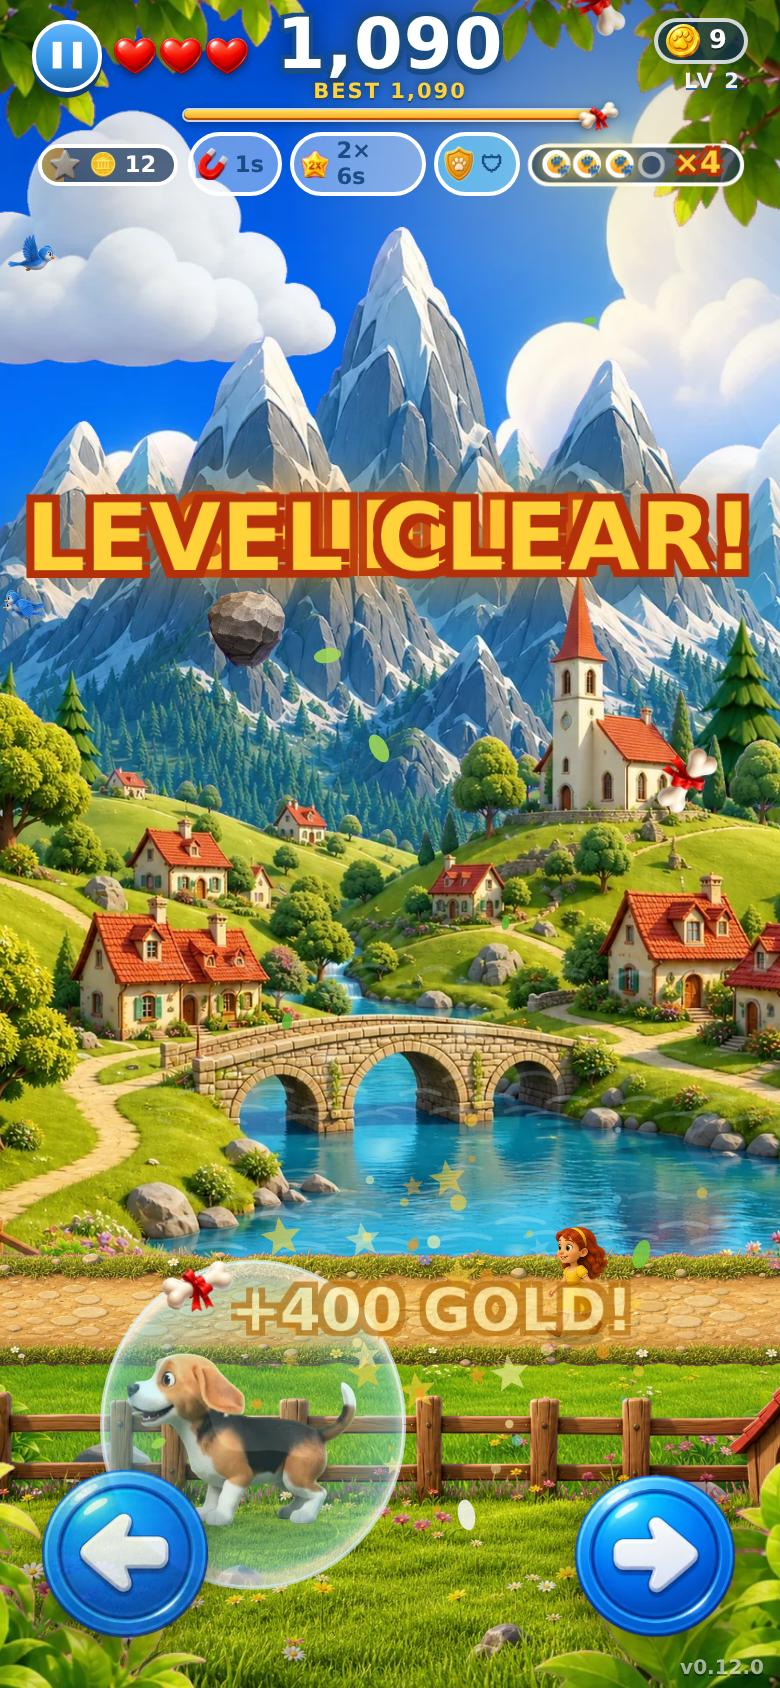
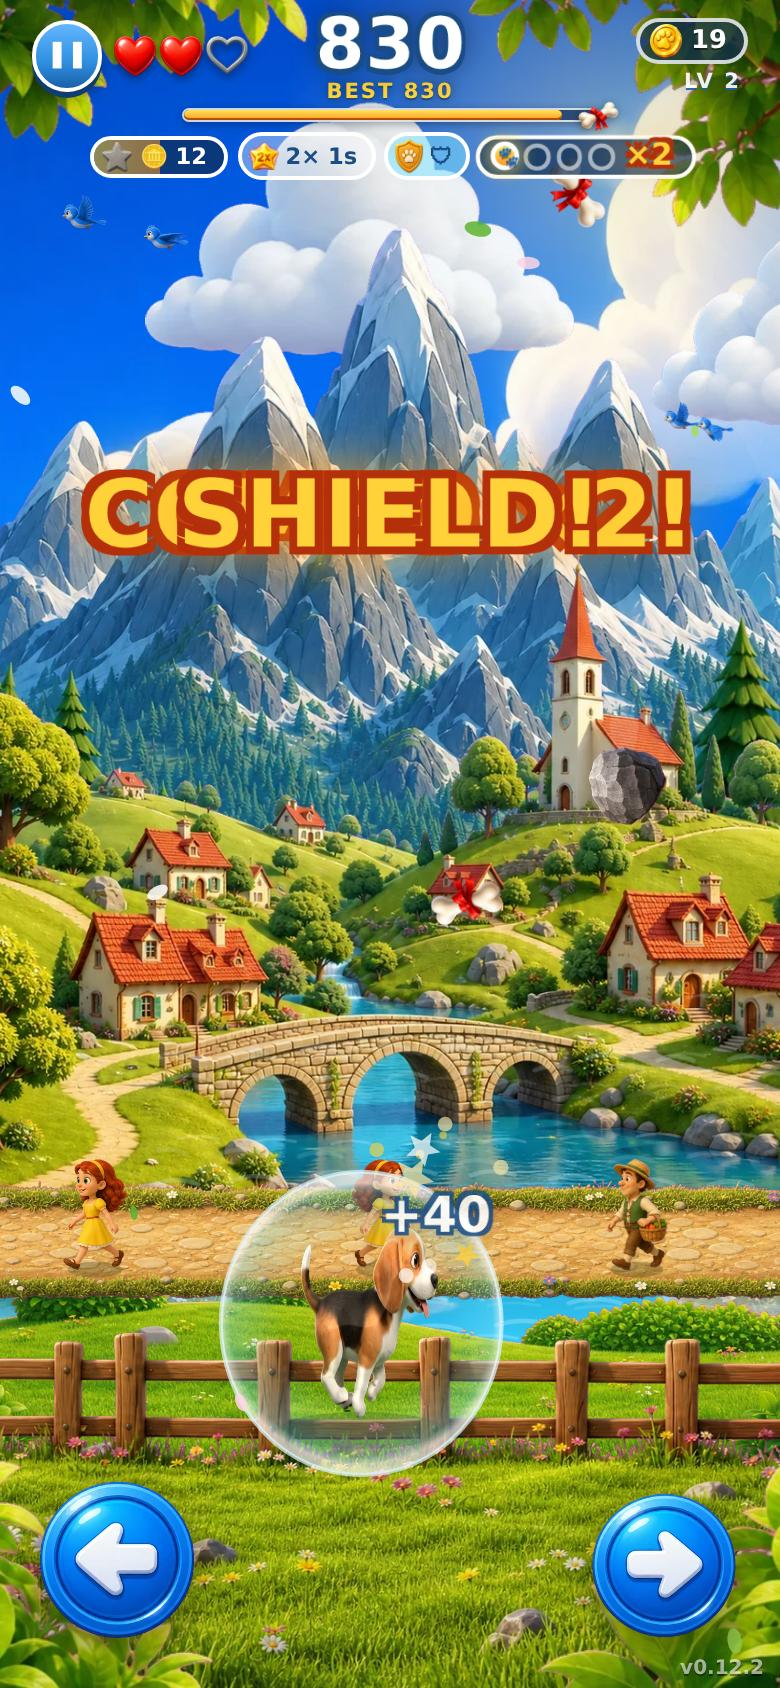
v0.12.2 — phone layout: puppy lane above the arrow buttons; i-frame glow instead of alpha strobe

diff --git a/index.html b/index.html
@@ -5,7 +5,7 @@
 <meta name="viewport" content="width=device-width, initial-scale=1.0, maximum-scale=1.0, user-scalable=no, viewport-fit=cover">
 <meta name="theme-color" content="#2f8fe0">
 <title>BONK! — Catch. Dodge. Don't get bonked.</title>
-<link rel="stylesheet" href="styles/main.css?v=0.12.1">
+<link rel="stylesheet" href="styles/main.css?v=0.12.2">
 </head>
 <body>
 <div id="backdrop"></div>
@@ -160,35 +160,35 @@
 </div>
 
 <!-- core -->
-<script src="src/core/config.js?v=0.12.1"></script>
-<script src="src/core/events.js?v=0.12.1"></script>
-<script src="src/core/flags.js?v=0.12.1"></script>
-<script src="src/core/analytics.js?v=0.12.1"></script>
-<script src="src/core/save.js?v=0.12.1"></script>
-<script src="src/core/wallet.js?v=0.12.1"></script>
-<script src="src/core/storage.js?v=0.12.1"></script>
-<script src="src/core/assets.js?v=0.12.1"></script>
-<script src="src/core/audio.js?v=0.12.1"></script>
-<script src="src/core/input.js?v=0.12.1"></script>
-<script src="src/net/leaderboard.js?v=0.12.1"></script>
+<script src="src/core/config.js?v=0.12.2"></script>
+<script src="src/core/events.js?v=0.12.2"></script>
+<script src="src/core/flags.js?v=0.12.2"></script>
+<script src="src/core/analytics.js?v=0.12.2"></script>
+<script src="src/core/save.js?v=0.12.2"></script>
+<script src="src/core/wallet.js?v=0.12.2"></script>
+<script src="src/core/storage.js?v=0.12.2"></script>
+<script src="src/core/assets.js?v=0.12.2"></script>
+<script src="src/core/audio.js?v=0.12.2"></script>
+<script src="src/core/input.js?v=0.12.2"></script>
+<script src="src/net/leaderboard.js?v=0.12.2"></script>
 <!-- game data -->
-<script src="src/game/items.js?v=0.12.1"></script>
-<script src="src/game/goals.js?v=0.12.1"></script>
-<script src="src/game/levels.js?v=0.12.1"></script>
+<script src="src/game/items.js?v=0.12.2"></script>
+<script src="src/game/goals.js?v=0.12.2"></script>
+<script src="src/game/levels.js?v=0.12.2"></script>
 <!-- game systems -->
-<script src="src/game/ambient.js?v=0.12.1"></script>
-<script src="src/game/background.js?v=0.12.1"></script>
-<script src="src/game/effects.js?v=0.12.1"></script>
-<script src="src/game/puppy.js?v=0.12.1"></script>
-<script src="src/game/spawner.js?v=0.12.1"></script>
-<script src="src/game/game.js?v=0.12.1"></script>
-<script src="src/game/ftue.js?v=0.12.1"></script>
+<script src="src/game/ambient.js?v=0.12.2"></script>
+<script src="src/game/background.js?v=0.12.2"></script>
+<script src="src/game/effects.js?v=0.12.2"></script>
+<script src="src/game/puppy.js?v=0.12.2"></script>
+<script src="src/game/spawner.js?v=0.12.2"></script>
+<script src="src/game/game.js?v=0.12.2"></script>
+<script src="src/game/ftue.js?v=0.12.2"></script>
 <!-- ui + scenes -->
-<script src="src/ui/hud.js?v=0.12.1"></script>
-<script src="src/ui/modals.js?v=0.12.1"></script>
-<script src="src/scenes/map.js?v=0.12.1"></script>
-<script src="src/scenes/play.js?v=0.12.1"></script>
+<script src="src/ui/hud.js?v=0.12.2"></script>
+<script src="src/ui/modals.js?v=0.12.2"></script>
+<script src="src/scenes/map.js?v=0.12.2"></script>
+<script src="src/scenes/play.js?v=0.12.2"></script>
 <!-- bootstrap -->
-<script src="src/app.js?v=0.12.1"></script>
+<script src="src/app.js?v=0.12.2"></script>
 </body>
 </html>

diff --git a/src/ui/hud.js b/src/ui/hud.js
@@ -33,10 +33,11 @@ const HUD = (() => {
     if (Input.any || (S && S.time > 4)) el.hint.style.opacity = 0;   // hide on first input or after 4 s
     // arrow buttons go translucent while the puppy runs underneath them (canvas is below the DOM)
     if (!zones || zoneW !== el.stage.clientWidth) { zoneW = el.stage.clientWidth; const sr = el.stage.getBoundingClientRect();
-      zones = [el.ctlL, el.ctlR].map(b => { const r = b.getBoundingClientRect(); return [(r.left - sr.left) / sr.width, (r.right - sr.left) / sr.width]; }); }
+      zones = [el.ctlL, el.ctlR].map(b => { const r = b.getBoundingClientRect(); return [(r.left - sr.left) / sr.width, (r.right - sr.left) / sr.width]; }); zones.top = el.ctlL.getBoundingClientRect().top - sr.top; }
     const bx = Game.puppy.box, x0 = (bx.cx - bx.pw * .5) / BG.W, x1 = (bx.cx + bx.pw * .5) / BG.W;
-    el.ctlL.classList.toggle('ghost', x0 < zones[0][1] && x1 > zones[0][0]);
-    el.ctlR.classList.toggle('ghost', x0 < zones[1][1] && x1 > zones[1][0]);
+    const under = Game.puppy.groundY > zones.top;   // only when the layout actually puts the puppy under the buttons (v0.12.2: it doesn't)
+    el.ctlL.classList.toggle('ghost', under && x0 < zones[0][1] && x1 > zones[0][0]);
+    el.ctlR.classList.toggle('ghost', under && x0 < zones[1][1] && x1 > zones[1][0]);
     // goal chip: live progress, then done/failed state; fades out 3 s after resolving
     if (S.goal) {
       const done = !S.goal.def.survive && S.goal.def.done(S, S.goal.st, S.goal.cfg), failed = !done && Goals.failed(S);

diff --git a/src/game/puppy.js b/src/game/puppy.js
@@ -187,7 +187,8 @@ class Puppy {
     const box = this.box, gy = this.groundY, lift = this.bob + this.hop;
     for (const d of this.dust) { c.save(); c.globalAlpha = (1 - d.t / d.life) * .35; c.fillStyle = '#e8d9b5'; c.beginPath(); c.arc(d.x, d.y, d.r * (1 + d.t * 2), 0, 6.28); c.fill(); c.restore(); }
 
-    const baseAlpha = (this.inv > 0 && Math.floor(this.inv * 12) % 2 === 0) ? .55 : 1;
+    // i-frames: NO transparency flicker (that read as "the dog disappears"). Instead a soft pulsing white glow around him.
+    const baseAlpha = 1, glow = this.inv > 0 ? (0.5 + 0.5 * Math.sin(this.inv * 18)) : 0;
     // shadow — shrinks and fades a little as the puppy lifts off
     const k = Math.min(1, lift / (box.pw * .3));
     c.save(); c.globalAlpha = .28 - k * .10; c.fillStyle = '#143c0a'; c.beginPath(); c.ellipse(box.cx, gy + 2, box.pw * (.36 - k * .08), box.pw * (.08 - k * .02), 0, 0, 6.28); c.fill(); c.restore();
@@ -202,6 +203,7 @@ class Puppy {
     const passes = (tt < 1 && !frontView) ? [[tt < .5 ? this.prevFace : this.face, 1, wOf(tt)]] : [[frontView ? 1 : this.face, 1, 1]];
     for (const [fx, a, wx] of passes) {
       c.save(); c.translate(box.cx, gy - lift);
+      if (glow > 0) { c.shadowColor = `rgba(255,255,255,${(0.35 + 0.5 * glow).toFixed(2)})`; c.shadowBlur = box.pw * (0.06 + 0.10 * glow); }
       c.rotate(sideView ? this.lean * .6 : 0);
       c.scale(fx * wx * this.squash, (2 - this.squash) * (1 + (1 - wx) * .10));
       // cross-dissolve between animations: alphas sum to 1 → no double exposure

diff --git a/src/core/config.js b/src/core/config.js
@@ -6,14 +6,14 @@
  * Item definitions live in src/game/items.js
  */
 const CONFIG = Object.freeze({
-  VERSION: '0.12.1',
+  VERSION: '0.12.2',
   STORAGE_PREFIX: 'bonk_',
 
   /** Player (puppy) */
   PUPPY: {
     HEIGHT_FRAC: 0.135,    // puppy body height as fraction of stage height (medium: clearly readable on phones)
     MAX_WIDTH_FRAC: 0.30,  // cap so it never gets too wide on narrow screens
-    GROUND_Y: 0.905,      // ground line as fraction of stage height
+    GROUND_Y: 0.845,      // ground line (fraction of stage height) — above the arrow buttons, so the puppy is never hidden under them
     MIN_X: 0.06,          // movement bounds (fraction of width)
     MAX_X: 0.94,
     MAX_SPEED: 1.05,      // stage widths / second (~0.85 s edge-to-edge) — snappy

diff --git a/styles/hud.css b/styles/hud.css
@@ -32,7 +32,7 @@
 
 /* control buttons */
 .controls{position:absolute;left:0;right:0;bottom:calc(env(safe-area-inset-bottom,0px) + 3%);display:flex;justify-content:space-between;padding:0 5%;pointer-events:none}
-.ctl{width:clamp(70px,22cqmin,120px);height:clamp(70px,22cqmin,120px);pointer-events:auto;cursor:pointer;background:none;border:none;filter:drop-shadow(0 6px 10px #0007);transition:transform .08s,opacity .25s}
+.ctl{width:clamp(66px,20cqmin,110px);height:clamp(66px,20cqmin,110px);pointer-events:auto;cursor:pointer;background:none;border:none;filter:drop-shadow(0 6px 10px #0007);transition:transform .08s,opacity .25s}
 .ctl.ghost{opacity:.35}
 .ctl img{width:100%;height:100%;object-fit:contain}
 .ctl.down{transform:scale(.92) translateY(3px)}

diff --git a/src/game/background.js b/src/game/background.js
@@ -16,7 +16,7 @@ const BG = (() => {
         { key: 'mountains', depth: 0.15, bottom: 0.60 },
         { key: 'village',   depth: 0.30, bottom: 0.80, water: 'water_mask' },
         { key: 'meadow',    depth: 0.42, bottom: 0.95, width: 1.30, mid: true },
-        { key: 'foreground',depth: 0.55, bottom: 1.01, front: true, width: 1.30 },   // wide: camera pulled back
+        { key: 'foreground',depth: 0.55, bottom: 1.01, front: true, width: 1.55 },   // taller grass apron: fence sits behind the puppy, buttons on the grass below him
       ],
       frameWidth: 1.55,  // tree frame pushed outward → more open play area
       frameY: -0.02,

diff --git a/src/game/ambient.js b/src/game/ambient.js
@@ -11,7 +11,7 @@
  */
 const Ambient = (() => {
   const CFG = {
-    ROAD_Y: 0.775,          // road band centre (fraction of stage height) — sits behind the fence
+    ROAD_Y: 0.735,          // road band centre (fraction of stage height) — sits behind the fence
     ROAD_H: 0.045,          // road band height (fraction of stage height)
     CAR_EVERY: [3.5, 8],    // seconds between cars (random range)
     WALKER_EVERY: [3.5, 8], // seconds between walkers

diff --git a/styles/main.css b/styles/main.css
@@ -1,6 +1,6 @@
 /* BONK! — stylesheet entry point (import order matters) */
-@import url("base.css?v=0.12.1");
-@import url("menu.css?v=0.12.1");
-@import url("hud.css?v=0.12.1");
-@import url("modals.css?v=0.12.1");
-@import url("map.css?v=0.12.1");
+@import url("base.css?v=0.12.2");
+@import url("menu.css?v=0.12.2");
+@import url("hud.css?v=0.12.2");
+@import url("modals.css?v=0.12.2");
+@import url("map.css?v=0.12.2");

diff --git a/docs/CHANGELOG.md b/docs/CHANGELOG.md
@@ -2,6 +2,14 @@
 
 All notable changes to BONK! are documented here. Format follows [Keep a Changelog](https://keepachangelog.com/).
 
+## [0.12.2] — 2026-09-05 — Phone layout: puppy above the buttons, no more "disappearing"
+### Fixed
+- **Puppy hidden under the arrow buttons on phones.** Ground line raised 0.905 → 0.845 and the grass apron made
+  taller, so the puppy runs on a clear lane above the ◀ ▶ buttons (buttons a touch smaller: 22 → 20 cqmin).
+  Fence and road moved up with him; items still land at his feet; the arrow-ghosting hack is now dormant.
+- **Puppy "invisible" after a hit.** The i-frame effect was a 45 % alpha strobe at 6 Hz, which on a phone reads as
+  the dog vanishing. Replaced with a soft pulsing white glow — always fully visible.
+
 ## [0.12.1] — 2026-09-05 — Turn "blink" fixed
 ### Fixed
 - Turning used to ease scaleX through 0, so for a frame or two the puppy shrank to a line and looked like it blinked

diff --git a/README.md b/README.md
@@ -3,7 +3,7 @@
 A polished 2D catch-and-dodge mobile web game with a Pixar-style parallax world.
 Move the puppy left/right, catch bones and coins, grab power-ups, and dodge falling rocks and bombs.
 
-**Version:** 0.12.1 · **Stack:** vanilla HTML5 Canvas + JS + CSS (no build step, no dependencies)
+**Version:** 0.12.2 · **Stack:** vanilla HTML5 Canvas + JS + CSS (no build step, no dependencies)
 
 ![BONK! gameplay](docs/screenshots/00_overview.jpg)
 

diff --git a/docs/STATUS.md b/docs/STATUS.md
@@ -1,5 +1,5 @@
 # BONK! — Status & Next Steps
-_Updated 2026-09-05 · current build **v0.12.1** (Phases 1–2 done) · roadmap reference: `PHASE2_PLAN.md` (locked v3)_
+_Updated 2026-09-05 · current build **v0.12.2** (Phases 1–2 done) · roadmap reference: `PHASE2_PLAN.md` (locked v3)_
 
 ---
 
